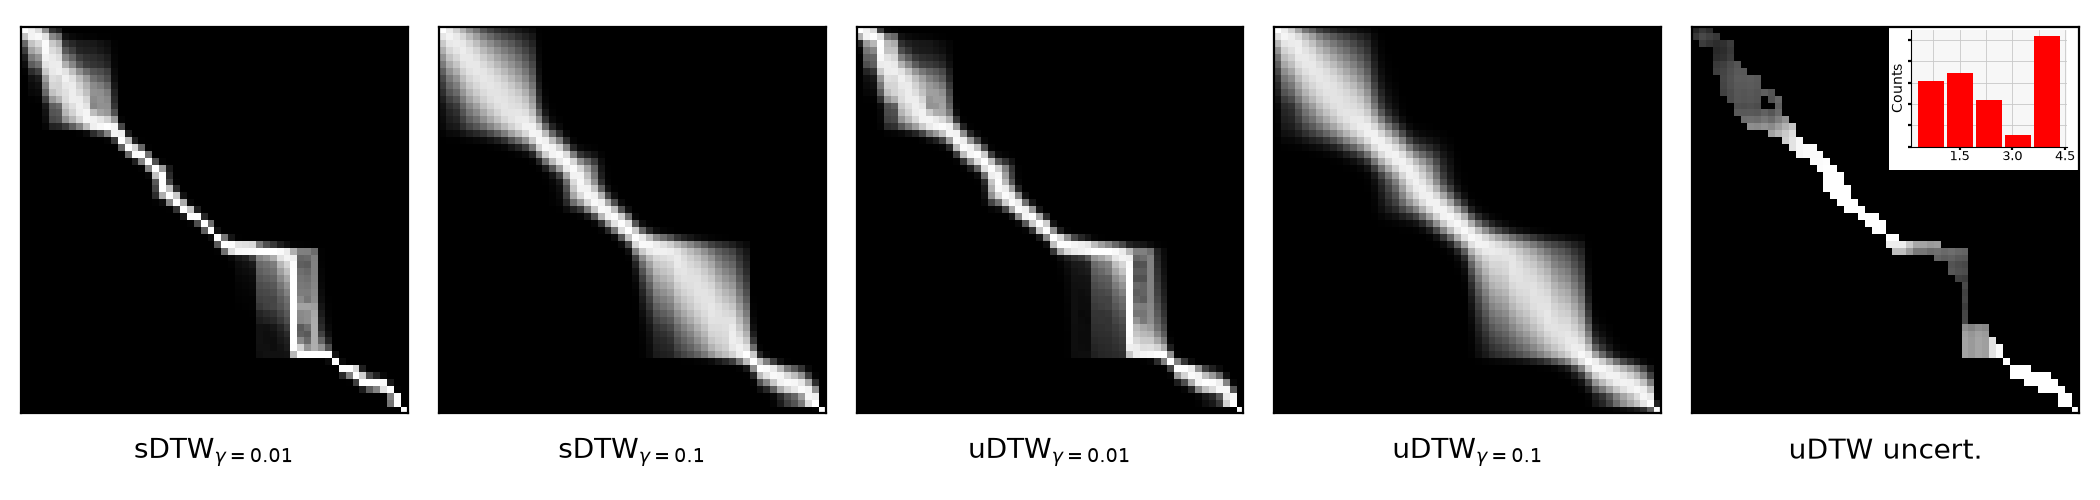
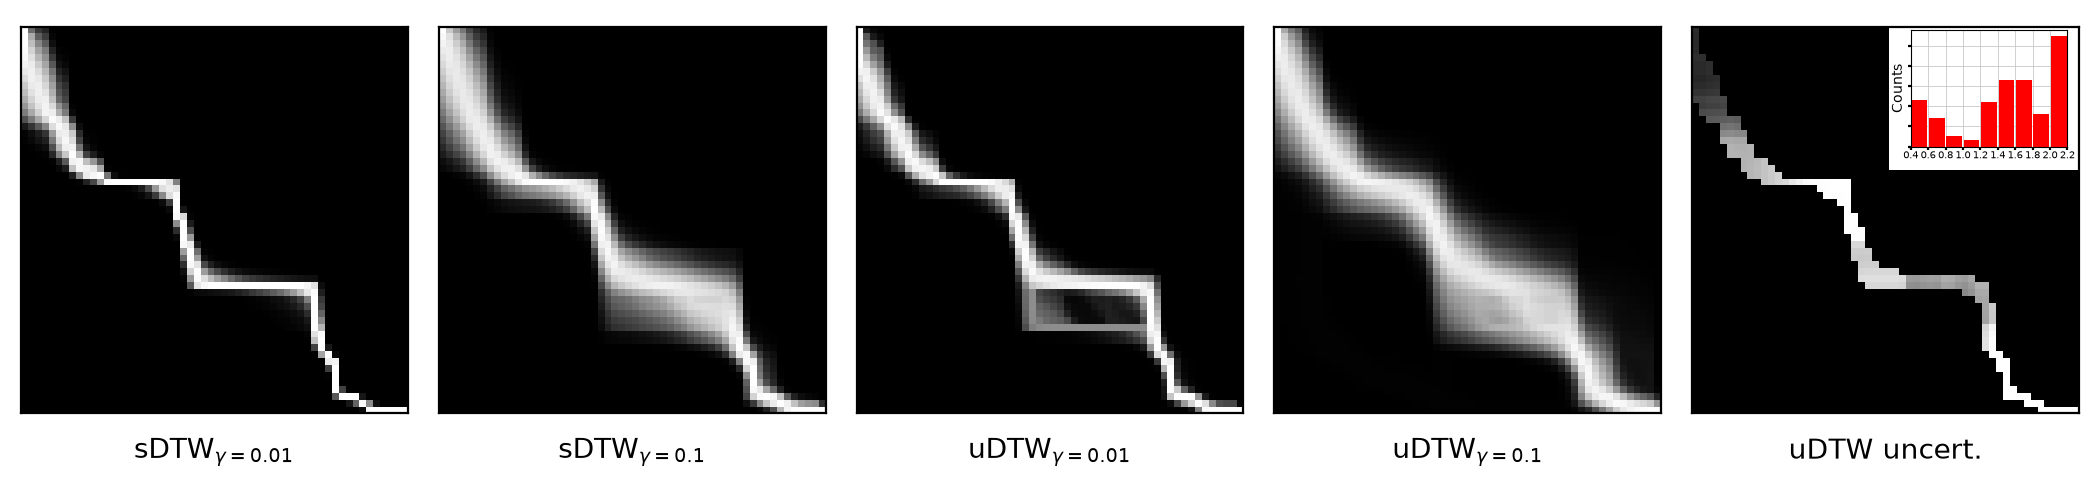
update figs

diff --git a/src/torchwarp/plot.py b/src/torchwarp/plot.py
@@ -67,11 +67,14 @@ def alignment(a, *, index=0, ax=None, power=0.1, title=None):
     return ax
 
 
-def uncertainty(a, *, index=0, ax=None, power=0.1, threshold=0.6, hist=True, title=None):
-    """Uncertainty Sigma on the path, white pixels = high uncertainty (uDTW Fig. 2e).
+def uncertainty(a, *, index=0, ax=None, power=0.1, threshold=0.6, hist=True, bin_width=0.2,
+                std=True, title=None):
+    """Uncertainty on the path, white pixels = high uncertainty (uDTW Fig. 2e).
 
     The plot of ``alignment`` is binarized at ``threshold`` and multiplied by
-    Sigma; the inset is the histogram of the values of Sigma on the path.
+    sigma = sqrt(Sigma) (``std=True``) or by the variance Sigma (``std=False``);
+    the inset is the histogram of these values on the path, with bins and x
+    ticks every ``bin_width`` (edges at multiples of ``bin_width``).
     """
     if a.Sigma is None:
         raise ValueError("uncertainty() needs a uDTW Alignment (with variance)")
@@ -79,6 +82,8 @@ def uncertainty(a, *, index=0, ax=None, power=0.1, threshold=0.6, hist=True, tit
     ax = ax or plt.gca()
     mask = _image(a.path_matrix[index], power) > threshold
     var = _np(a.Sigma[index])
+    if std:
+        var = np.sqrt(var)
     on_path = var[mask]
     lo, hi = on_path.min(), on_path.max()
     img = np.where(mask, (var - lo) / max(hi - lo, 1e-12) * 0.85 + 0.15, 0.0)
@@ -90,21 +95,20 @@ def uncertainty(a, *, index=0, ax=None, power=0.1, threshold=0.6, hist=True, tit
         ax.add_patch(plt.Rectangle((0.51, 0.63), 0.49, 0.37, transform=ax.transAxes,
                                    facecolor="white", edgecolor="none"))
         ins = ax.inset_axes([0.565, 0.69, 0.405, 0.3])
-        ins.set_facecolor("#f7f7f7")
-        ins.hist(on_path, bins=5, color="red", rwidth=0.9)
+        edges = np.arange(np.floor(lo / bin_width), np.ceil(hi / bin_width) + 1) * bin_width
+        ins.hist(on_path, bins=edges, color="red", rwidth=0.9)
+        ins.set_xlim(edges[0], edges[-1])
         ins.set_ylabel("Counts", fontsize=5, labelpad=0.5)
         ins.tick_params(labelsize=4.5, length=1, pad=0.5)
-        ins.set_yticklabels([])
-        ins.xaxis.set_major_locator(_ticker().MaxNLocator(4))
-        ins.xaxis.set_minor_locator(_ticker().AutoMinorLocator(2))
+        ins.xaxis.set_major_locator(_ticker().MultipleLocator(bin_width))
+        ins.xaxis.set_major_formatter(_ticker().FormatStrFormatter("%.1f"))
+        ins.tick_params(axis="x", labelsize=3.6)
         ins.yaxis.set_major_locator(_ticker().MaxNLocator(6))
-        ins.tick_params(which="minor", length=0)
-        ins.grid(True, which="both", color="#c8c8c8", linewidth=0.3)
+        ins.set_yticklabels([])
+        ins.grid(True, color="#c8c8c8", linewidth=0.3)
         ins.set_axisbelow(True)
-        for side in ("top", "right"):
-            ins.spines[side].set_visible(False)
-        for side in ("left", "bottom"):
-            ins.spines[side].set_linewidth(0.4)
+        for spine in ins.spines.values():
+            spine.set_linewidth(0.4)
     if title:
         ax.set_title(title, y=-0.16, fontsize=10)
     return ax
@@ -254,7 +258,7 @@ def path_3d(alignments, *, labels=None, index=0, ax=None, angles=None, colors=No
 
 
 def udtw_figure(X, Y, sigma_x, sigma_y, *, gammas=(0.01, 0.1), beta=1.0, index=0, power=0.1,
-                threshold=0.6):
+                threshold=0.6, bin_width=0.2, std=True):
     """uDTW Fig. 2: sDTW and uDTW paths for two gammas, and uDTW uncertainty.
 
     X [B, N, D], Y [B, M, D], sigma_x [B, N, 1], sigma_y [B, M, 1]; batch item
@@ -276,7 +280,7 @@ def udtw_figure(X, Y, sigma_x, sigma_y, *, gammas=(0.01, 0.1), beta=1.0, index=0
                   title=r"uDTW$_{\gamma=%g}$" % g)
         col += 1
     uncertainty(us[0], index=index, ax=axes[col], power=power, threshold=threshold,
-                title="uDTW uncert.")
+                bin_width=bin_width, std=std, title="uDTW uncert.")
     fig.subplots_adjust(wspace=0.08, left=0.01, right=0.99, top=0.98, bottom=0.14)
     return fig
 

diff --git a/experiments/ecg5000_plot_paths.py b/experiments/ecg5000_plot_paths.py
@@ -46,7 +46,7 @@ def udtw_figure(path, index, device):
 
 def main():
     ap = argparse.ArgumentParser()
-    ap.add_argument("--index", type=int, default=0)
+    ap.add_argument("--index", type=int, default=204)
     ap.add_argument("--out", default=str(ROOT / "assets"))
     ap.add_argument("--device", default="cuda" if torch.cuda.is_available() else "cpu")
     args = ap.parse_args()

diff --git a/docs/api.md b/docs/api.md
@@ -470,14 +470,17 @@ figure functions create and return a `matplotlib.figure.Figure`.
 
 ```python
 torchwarp.plot.udtw_figure(X, Y, sigma_x, sigma_y, *, gammas=(0.01, 0.1),
-                           beta=1.0, index=0, power=0.1, threshold=0.6)
+                           beta=1.0, index=0, power=0.1, threshold=0.6,
+                           bin_width=0.2, std=True)
 ```
 
 One row of panels for pair `index`: the sDTW path matrix for each $\gamma$ in
 `gammas` (same D, $\Sigma = 1$), the uDTW path matrix for each $\gamma$, and the
 uncertainty $\Sigma$ on the uDTW path for the first $\gamma$. Pixels are raised to the
 power `power` so that faint paths are visible; `threshold` binarizes the
-path for the uncertainty panel. **Returns** a `Figure`.
+path for the uncertainty panel; `bin_width` is the width of the histogram bins and
+`std` is passed to `plot.uncertainty`.
+**Returns** a `Figure`.
 
 ### `plot.viewpoint_figure`
 
@@ -518,11 +521,14 @@ viewpoints if there are any).
 
 ```python
 torchwarp.plot.uncertainty(a, *, index=0, ax=None, power=0.1, threshold=0.6,
-                           hist=True, title=None)
+                           hist=True, bin_width=0.2,
+                           std=True, title=None)
 ```
 
-The binarized path of a uDTW `Alignment` multiplied by $\Sigma$ (white = high
-uncertainty), with a histogram of $\Sigma$ on the path when `hist=True`.
+The binarized path of a uDTW `Alignment` multiplied by $\sigma = \sqrt{\Sigma}$
+(`std=True`) or by the variance $\Sigma$ (`std=False`) (white = high
+uncertainty), with a histogram of these values on the path when `hist=True`
+(bins and x ticks every `bin_width`, edges at multiples of `bin_width`).
 
 ### `plot.twoway`
 

diff --git a/docs/benchmarks.md b/docs/benchmarks.md
@@ -175,7 +175,7 @@ python experiments/nwucla_plot_paths.py --query 970 --support 1005 --out assets
 ```
 
 `ecg5000_plot_paths.py` writes `assets/udtw_paths_ecg5000.png` (test series
-`--index`, default 0). `nwucla_plot_paths.py` with `--query 970 --support
+`--index`, default 204). `nwucla_plot_paths.py` with `--query 970 --support
 1005` writes `assets/viewpoint_paths_nwucla.png` (two sequences of the
 action donning).
 
